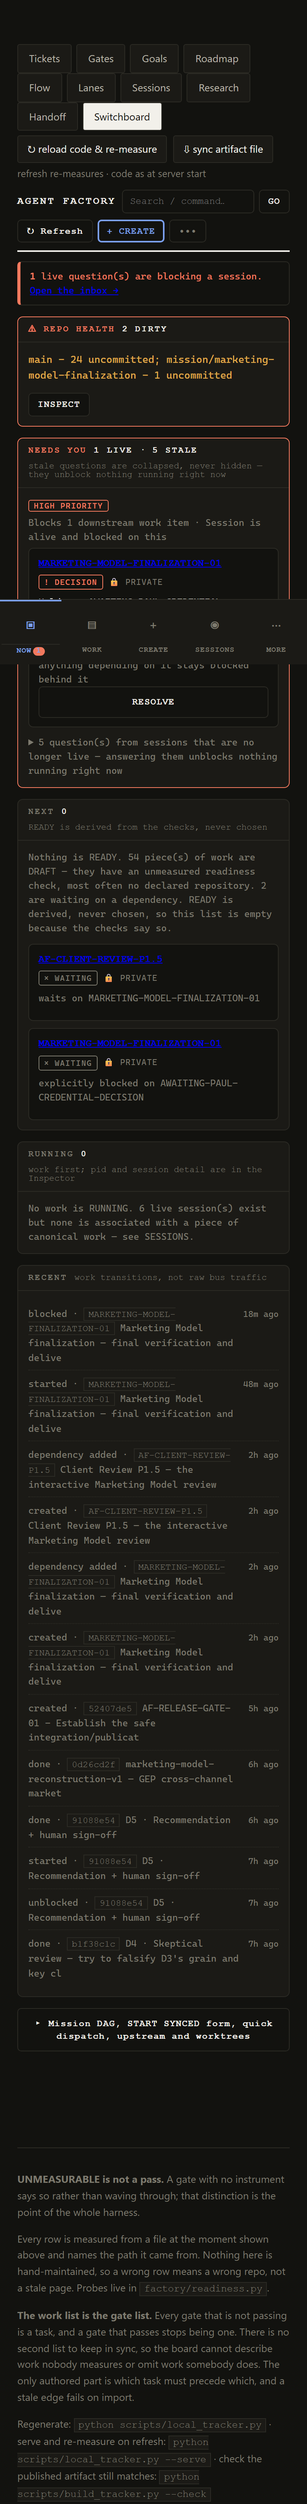
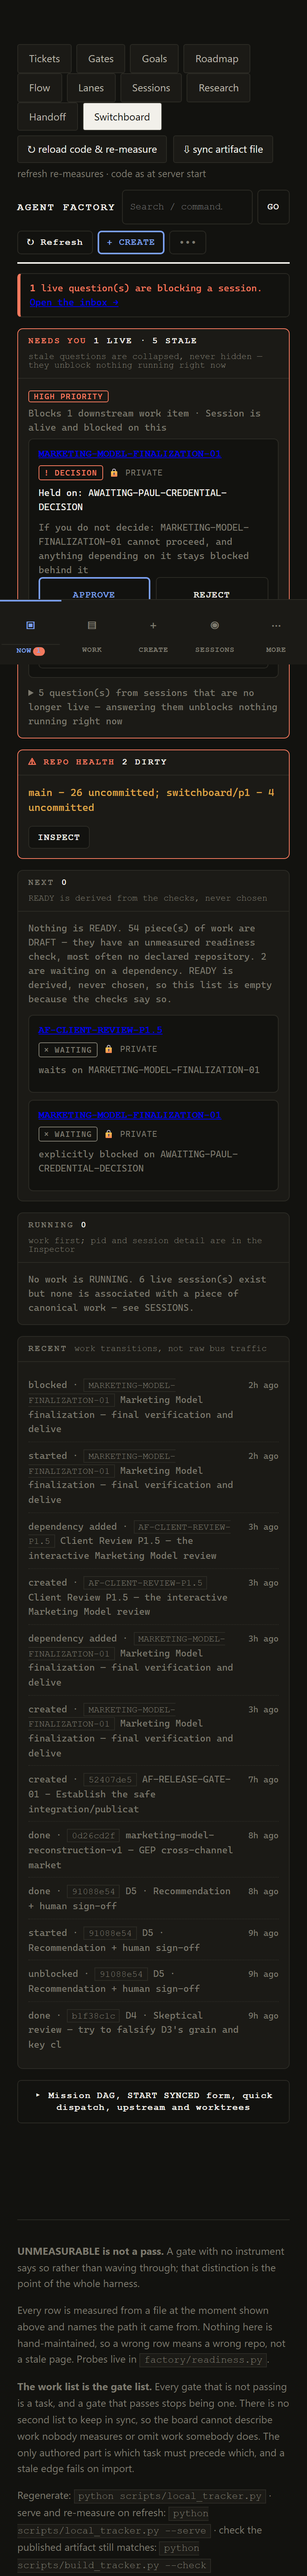
fix(switchboard): the decision inbox had no way to decide
Paul, on a phone with no laptop access, could not approve the credential hold
the page was asking him to approve. He was right, and the audit was worse than
the one button he hit.

⛔ RESOLVE was an <a href> to the Inspector. The Inspector carried no release
control either. So the page stated a decision was required, named the person
required to make it, and offered no way to make it — an inbox that can only
accumulate. An audit of every control found 58 of them: RESOLVE, VALIDATE and
REVIEW OUTCOME were all navigation wearing an imperative verb. The six POST
routes were all correctly wired; the action buttons were the fake part.

Now:

  - `POST /switchboard/resolve` releases a named hold. APPROVE and REJECT are
    both answers and both release it — a hold nobody will ever clear is worse
    than one cleared with a "no" attached.
  - Evidence is written FIRST, so the decision carries an author, a time and a
    verdict. An optional note is recorded verbatim.
  - It refuses a hold the work does not actually have, because a page rendered
    thirty seconds ago is not the authority. Proven through the tunnel: the
    stale-hold POST returned 303 and the real hold survived it intact.
  - The Inspector grows a Holds section with the same control.
  - A control that only navigates now SAYS so ("VALIDATE — open detail"). The
    verb stays; the promise of an act does not.

Three mobile defects found in the same pass, all on the highest-consequence
tap on the surface:
[…]

diff --git a/factory/switchboard_p1.py b/factory/switchboard_p1.py
@@ -105,6 +105,11 @@ CSS = """
 .p1 .btn.wide{display:block;width:100%;text-align:center;padding:11px;
  white-space:normal;overflow-wrap:anywhere}
 .p1 .btn[aria-disabled=true]{opacity:.45;pointer-events:none}
+/* ⛔ Decision buttons are the ones a thumb actually has to hit, at 2am, on a phone. Measured at
+   30px in the flex row, under the 40px floor every .btn.wide already meets — and APPROVE/REJECT
+   are the highest-consequence taps on the surface. Given their own minimum rather than relying on
+   the wide-button rule they do not match. */
+.p1 form button.btn{min-height:44px;padding:11px 12px}
 
 /* ---- sections ------------------------------------------------------------ */
 .p1 .sec{border:1px solid var(--rule);background:var(--raise);margin:0 0 var(--gut);
@@ -325,7 +330,15 @@ def _primary_action(w: dict, view: str) -> str:
                 f'<button class="btn pri wide" name="go" value="1">START SYNCED</button></form>')
     if w["state"] == _work.RUNNING and w.get("session_id"):
         return (f'<a class="btn wide" href="{_url("sessions", w["id"])}">OPEN SESSION</a>')
-    return f'<a class="btn wide" href="{_url(view, w["id"])}">{_e(act)}</a>'
+    if w["state"] == _work.BLOCKED and w.get("blocked_by"):
+        # A real hold has a real release. Everything else here is navigation and says so.
+        return _decide_form(w, "; ".join(w["blocked_by"]), view)
+    # ⛔ These states have no single action the page can perform, so the control must NOT wear
+    # an imperative verb. RESOLVE / VALIDATE / REVIEW OUTCOME as bare <a href> were 58 buttons that
+    # looked like acts and only navigated -- the defect Paul hit on a phone with no laptop. The
+    # verb stays, as the thing you are going to DO next, and the label says where the tap goes.
+    return (f'<a class="btn wide" href="{_url(view, w["id"])}">'
+            f'{_e(act)} — open detail</a>')
 
 
 # --------------------------------------------------------------------------- NOW
@@ -346,6 +359,36 @@ def _why(r: dict) -> str:
     why = " · ".join(_e(x) for x in (r.get("why") or []))
     return (f'<div style="margin:0 0 5px"><span class="tag" style="color:{col}">{_e(band)}</span>'
             f'<div class="empty" style="margin-top:4px">{why}</div></div>')
+
+
+def _decide_form(w: dict, hold: str, view: str) -> str:
+    """APPROVE / REJECT, as a real POST. ⛔ Not a link.
+
+    The first version rendered `<a href=…>RESOLVE</a>`, which navigated to the Inspector — and the
+    Inspector had no release control either. The page named a decision, named the person who had
+    to make it, and offered no way to make it. On a phone, with no laptop, that is a dead end
+    dressed as an inbox.
+
+    Both answers are answers: APPROVE releases the hold, REJECT releases it too and records the
+    verdict, because a hold nobody will ever clear is worse than one cleared with a "no" attached.
+    The optional note is what a future reader needs to reconstruct why.
+    """
+    first = (hold.split(";")[0] or "").strip()
+    return (
+        f'<form method="POST" action="/switchboard/resolve" style="margin:0">'
+        f'<input type="hidden" name="work_id" value="{_e(w["id"])}">'
+        f'<input type="hidden" name="hold" value="{_e(first)}">'
+        f'<div style="display:flex;gap:7px">'
+        f'<button class="btn pri" name="go" value="APPROVE" style="flex:1">APPROVE</button>'
+        f'<button class="btn" name="go" value="REJECT" style="flex:1">REJECT</button>'
+        f'</div>'
+        # The note comes AFTER the buttons. It is optional, and putting it first pushed the
+        # decision itself below the fold on a 390px phone -- an optional field outranking the act.
+        f'<details style="margin-top:7px"><summary class="empty" style="cursor:pointer">'
+        f'add a reason (optional)</summary>'
+        f'<input type="text" name="note" maxlength="500" placeholder="why" '
+        f'style="margin-top:6px"></details></form>'
+        f'<a class="btn wide" href="{_url(view, w["id"])}" style="margin-top:7px">DETAIL</a>')
 
 
 def _needs_you(st: dict, view: str) -> str:
@@ -385,7 +428,7 @@ def _needs_you(st: dict, view: str) -> str:
                 f'{_e(w.get("visibility_label",""))}</span></div>'
                 f'<p class="ttl" style="color:var(--ink)">Held on: {_e(r.get("asks",""))}</p>'
                 f'<p class="empty">If you do not decide: {_e(r.get("consequence",""))}</p>'
-                f'<a class="btn wide" href="{_url(view, w["id"])}">RESOLVE</a></div>')
+                + _decide_form(w, r.get("asks", ""), view) + '</div>')
             continue
         if r["kind"] == "WORK" and r.get("work"):
             o.append(_why(r) + work_card(r["work"], view=view))
@@ -608,6 +651,26 @@ def inspector(st: dict, wid: str, view: str) -> str:
     o.append('</ul><p class="empty" style="margin-top:7px">READY requires every check to be an '
              'explicit PASS. UNMEASURED is not a pass.</p></div>')
 
+    holds = w.get("blocked_by") or []
+    if holds:
+        o.append('<div class="isec"><h3>Holds</h3>')
+        o.append('<p class="empty" style="margin-bottom:8px">An explicit hold. Releasing it is a '
+                 'decision, and it is recorded with an author, a time and a verdict.</p>')
+        for h in holds:
+            o.append(
+                f'<form method="POST" action="/switchboard/resolve" style="margin:0 0 9px">'
+                f'<input type="hidden" name="work_id" value="{_e(w["id"])}">'
+                f'<input type="hidden" name="hold" value="{_e(h)}">'
+                f'<p class="ttl" style="color:var(--ink);margin-bottom:5px">'
+                f'<code>{_e(h)}</code></p>'
+                f'<input type="text" name="note" maxlength="500" placeholder="why (optional)" '
+                f'style="margin-bottom:6px">'
+                f'<div style="display:flex;gap:6px">'
+                f'<button class="btn pri" name="go" value="APPROVE" style="flex:1">APPROVE</button>'
+                f'<button class="btn" name="go" value="REJECT" style="flex:1">REJECT</button>'
+                f'</div></form>')
+        o.append("</div>")
+
     o.append('<div class="isec"><h3>Autonomy</h3><dl class="kv">')
     o.append(f'<dt>policy</dt><dd>{_e(w.get("autonomy", "MANUAL"))}</dd>')
     o.append(f'<dt>paused</dt><dd>{"YES — the operator stop outranks the policy" if w.get("autonomy_paused") else "no"}</dd>')
@@ -815,7 +878,12 @@ def p0_block(st: dict, dispatch=None, expanded: bool = False) -> str:
 
 def _view_now(st: dict, view: str) -> str:
     now = st.get("now") or {}
-    o = [_repo_health(st)]
+    # ⛔ NEEDS YOU first, repo health after. Repo health sat above it and pushed the APPROVE button
+    # to 929px on an 844px viewport -- below the fold, on the one card the page exists to surface.
+    # And "main -- 26 uncommitted" is CHRONIC here: several sessions share that checkout, so it is
+    # close to permanently true. A permanently-true alarm outranking a live human decision is the
+    # same defect as five stale questions outranking one live blocker.
+    o = []
     rows = now.get("needs_you") or []
     live_n = sum(1 for r in rows if r.get("live"))
     stale_n = len(rows) - live_n
@@ -826,6 +894,7 @@ def _view_now(st: dict, view: str) -> str:
                   # ⛔ The alarm border is for a LIVE blocker only. Five stale questions turning
                   # the panel red teaches the operator that red means nothing.
                   alarm=bool(live_n), sid="needs-you"))
+    o.append(_repo_health(st))
     o.append(_sec("Next", _next(st, view), n=str(now.get("next_count") or 0),
                   hint="READY is derived from the checks, never chosen", sid="next"))
     o.append(_sec("Running", _running(st, view), n=str(now.get("running_count") or 0),

diff --git a/tests/test_switchboard_p1.py b/tests/test_switchboard_p1.py
@@ -699,3 +699,85 @@ def test_a_waiting_card_names_the_real_blocker_not_a_satisfied_dependency(store)
     assert "AWAITING-A-DECISION" in w.blocked_reason
     assert "SATISFIED-DEP" not in w.blocked_reason, (
         "the card would name a dependency that is already satisfied")
+
+
+# ============================================================ 13. the buttons must ACT
+
+
+def test_every_action_label_is_either_a_real_post_or_says_it_navigates(live_state):
+    """⛔ The defect Paul hit on a phone with no laptop access.
+
+    The NEEDS YOU decision card rendered a control labelled RESOLVE that was an `<a href>` to the
+    Inspector — and the Inspector carried no release control either. The page stated a decision was
+    required, named the person required to make it, and offered no way to make it. An audit found
+    58 such controls: RESOLVE, VALIDATE and REVIEW OUTCOME were all navigation wearing an
+    imperative verb.
+
+    A control may navigate. It may not LOOK like an act and only navigate.
+    """
+    import re
+    html = ""
+    for view in ("now", "work", "inbox"):
+        html += p1.page(live_state, view=view, token="tok", runtime="rt")
+    bare = re.findall(r'<a class="btn[^"]*"[^>]*>\s*(RESOLVE|VALIDATE|REVIEW OUTCOME|RESPOND)\s*</a>',
+                      html)
+    assert not bare, (
+        f"{len(bare)} control(s) wear an imperative verb and only navigate: {set(bare)}")
+
+
+def test_a_held_work_item_renders_a_real_release_control(store, monkeypatch):
+    _mk(store, "BTN-01")
+    store.block("BTN-01", by="AWAITING-A-DECISION", actor="t")
+    monkeypatch.setattr(W, "store_path", lambda: store.path)
+    rows = [w.to_dict() for w in W.project(store=store)]
+    # The retained P0 block renders inside the NOW page and reads top-level keys of its own, so
+    # the fixture has to be a whole projection rather than the subset this test cares about.
+    st = sb.state(cheap=True)
+    st["work"] = rows
+    st["now"] = sb.now_buckets(rows, [])
+
+    body = p1.page(st, view="now", token="t", runtime="r")
+    assert 'action="/switchboard/resolve"' in body, "no release control on the decision card"
+    assert 'value="APPROVE"' in body and 'value="REJECT"' in body, (
+        "both answers must be answers — a hold nobody will ever clear is worse than a 'no'")
+
+    insp = p1.inspector(st, "BTN-01", "now")
+    assert 'action="/switchboard/resolve"' in insp, "the Inspector has no release control either"
+    assert "AWAITING-A-DECISION" in insp
+
+
+def test_resolving_a_hold_is_recorded_and_refuses_a_stale_one(store, monkeypatch):
+    """The release must carry an author, a time and a verdict, and must refuse a hold that is not
+    actually held — a page rendered thirty seconds ago is not the authority."""
+    from scripts import local_tracker as lt
+    monkeypatch.setattr(lt.worklib, "open_store", lambda: store)
+    monkeypatch.setattr(W, "open_store", lambda: store)
+    monkeypatch.setattr(W, "store_path", lambda: store.path)
+
+    _mk(store, "BTN-02")
+    store.block("BTN-02", by="AWAITING-A-DECISION", actor="t")
+
+    ok, msg = lt.resolve_hold("BTN-02", hold="NOT-HELD-ON-THIS", decision="APPROVE")
+    assert ok is False and "not held on" in msg
+    assert {x.id: x for x in W.project(store=store)}["BTN-02"].state == W.BLOCKED
+
+    ok, msg = lt.resolve_hold("BTN-02", hold="AWAITING-A-DECISION",
+                              decision="APPROVE", note="because I said so")
+    assert ok is True
+    w = {x.id: x for x in W.project(store=store)}["BTN-02"]
+    assert w.state == W.READY and w.blocked_by == []
+    kinds = [e["kind"] for e in store.get("BTN-02").evidence]
+    assert any("APPROVE" in k for k in kinds), f"the decision was not recorded ({kinds})"
+
+
+def test_reject_also_releases_and_records_the_verdict(store, monkeypatch):
+    from scripts import local_tracker as lt
+    monkeypatch.setattr(lt.worklib, "open_store", lambda: store)
+    monkeypatch.setattr(W, "open_store", lambda: store)
+    monkeypatch.setattr(W, "store_path", lambda: store.path)
+    _mk(store, "BTN-03")
+    store.block("BTN-03", by="A-HOLD", actor="t")
+    ok, msg = lt.resolve_hold("BTN-03", hold="A-HOLD", decision="REJECT")
+    assert ok is True and "REJECT" in msg
+    kinds = [e["kind"] for e in store.get("BTN-03").evidence]
+    assert any("REJECT" in k for k in kinds)

diff --git a/scripts/local_tracker.py b/scripts/local_tracker.py
@@ -554,6 +554,53 @@ def _await_session(work_id: str):
     return None
 
 
+def resolve_hold(work_id: str, hold: str = "", decision: str = "", note: str = ""):
+    """Release an explicit hold on a piece of work — the operator's decision, recorded.
+
+    ⛔ **This exists because the button did not.** The NEEDS YOU decision card rendered a control
+    labelled RESOLVE that was an `<a href>` to the Inspector, and the Inspector carried no control
+    to release a hold either. So the page stated that a decision was required, named the person
+    required to make it, and offered no way to make it — an inbox that can only ever accumulate.
+    Paul hit exactly that on a phone with no laptop access, which is the situation the whole
+    surface exists to serve.
+
+    The release is `unblock`, which is already the store's inverse of `block`, plus an evidence row
+    so the decision has an author, a time and a reason. `decision` is recorded verbatim: APPROVE
+    and REJECT are different answers and both are answers.
+    """
+    work_id, hold = (work_id or "").strip(), (hold or "").strip()
+    if not work_id or not hold:
+        return False, "REFUSED: a resolve needs both the work id and the hold it releases."
+    try:
+        store = worklib.open_store()
+        t = store.get(work_id)
+    except KeyError:
+        return False, f"REFUSED: no canonical work named {work_id!r}."
+    except Exception as exc:                                       # noqa: BLE001
+        return False, f"could not read the store: {type(exc).__name__}: {exc}"
+    if hold not in (t.blocked_by or []):
+        return False, (f"REFUSED: {work_id} is not held on {hold!r}. Current holds: "
+                       + (", ".join(t.blocked_by) or "none") + ". The page was stale.")
+    verdict = (decision or "RESOLVED").upper()[:32]
+    try:
+        # ⭐ Evidence FIRST. A release that lands with no record of who decided or why is the
+        # thing this estate keeps finding: a state change nobody can reconstruct afterwards.
+        store.add_evidence(work_id, kind=f"operator decision: {verdict}",
+                           ref=f"hold:{hold}", actor="operator", basis="MEASURED")
+        if note.strip():
+            store._emit({"ts": __import__("time").time(), "actor": "operator", "kind": "note",
+                         "task": work_id, "data": {"text": note.strip()[:2000], "hold": hold,
+                                                   "decision": verdict}})
+        store.unblock(work_id, by=hold, actor="operator")
+    except Exception as exc:                                       # noqa: BLE001
+        return False, f"could not release the hold: {type(exc).__name__}: {exc}"
+    w = next((x for x in worklib.project() if x.id == work_id), None)
+    return True, (f"{verdict}: released {hold} on {work_id}"
+                  + (f" — now {w.state}" + (f" ({w.blocked_reason[:90]})"
+                                            if w.blocked_reason else "") if w else "")
+                  + (f'; note recorded' if note.strip() else ""))
+
+
 def set_autonomy(work_id: str, to: str = "", go: str = "set"):
     """Set the execution policy, or PAUSE / RESUME it.
 
@@ -3119,6 +3166,19 @@ class Handler(http.server.BaseHTTPRequestHandler):
             self.send_response(303)
             self.send_header("Location", "/switchboard?view=now" if _SB_MSG[0]
                              else "/switchboard?view=create")
+            self.send_header("Cache-Control", "no-store"); self.end_headers()
+            return
+        if self.path.rstrip("/") == "/switchboard/resolve":
+            raw = self.rfile.read(int(self.headers.get("Content-Length") or 0)).decode("utf-8", "replace")
+            q = urllib.parse.parse_qs(raw, keep_blank_values=True)
+            _SB_MSG = resolve_hold(
+                (q.get("work_id") or [""])[0],
+                hold=(q.get("hold") or [""])[0],
+                decision=(q.get("go") or [""])[0],
+                note=(q.get("note") or [""])[0])
+            print(f"  switchboard/resolve: {_SB_MSG[1]}")
+            self.send_response(303)
+            self.send_header("Location", "/switchboard?view=now")
             self.send_header("Cache-Control", "no-store"); self.end_headers()
             return
         if self.path.rstrip("/") == "/switchboard/autonomy":
